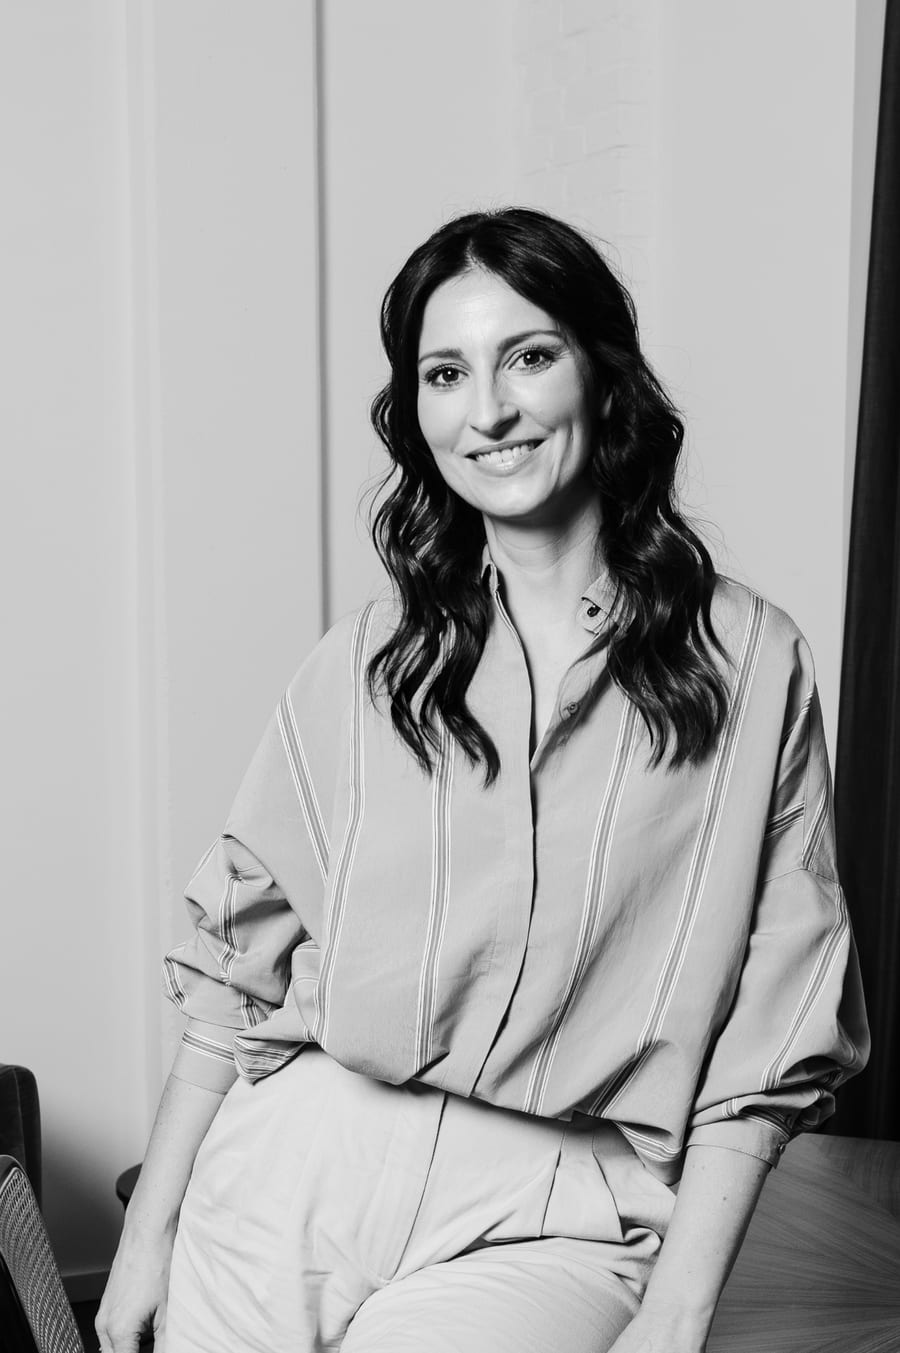
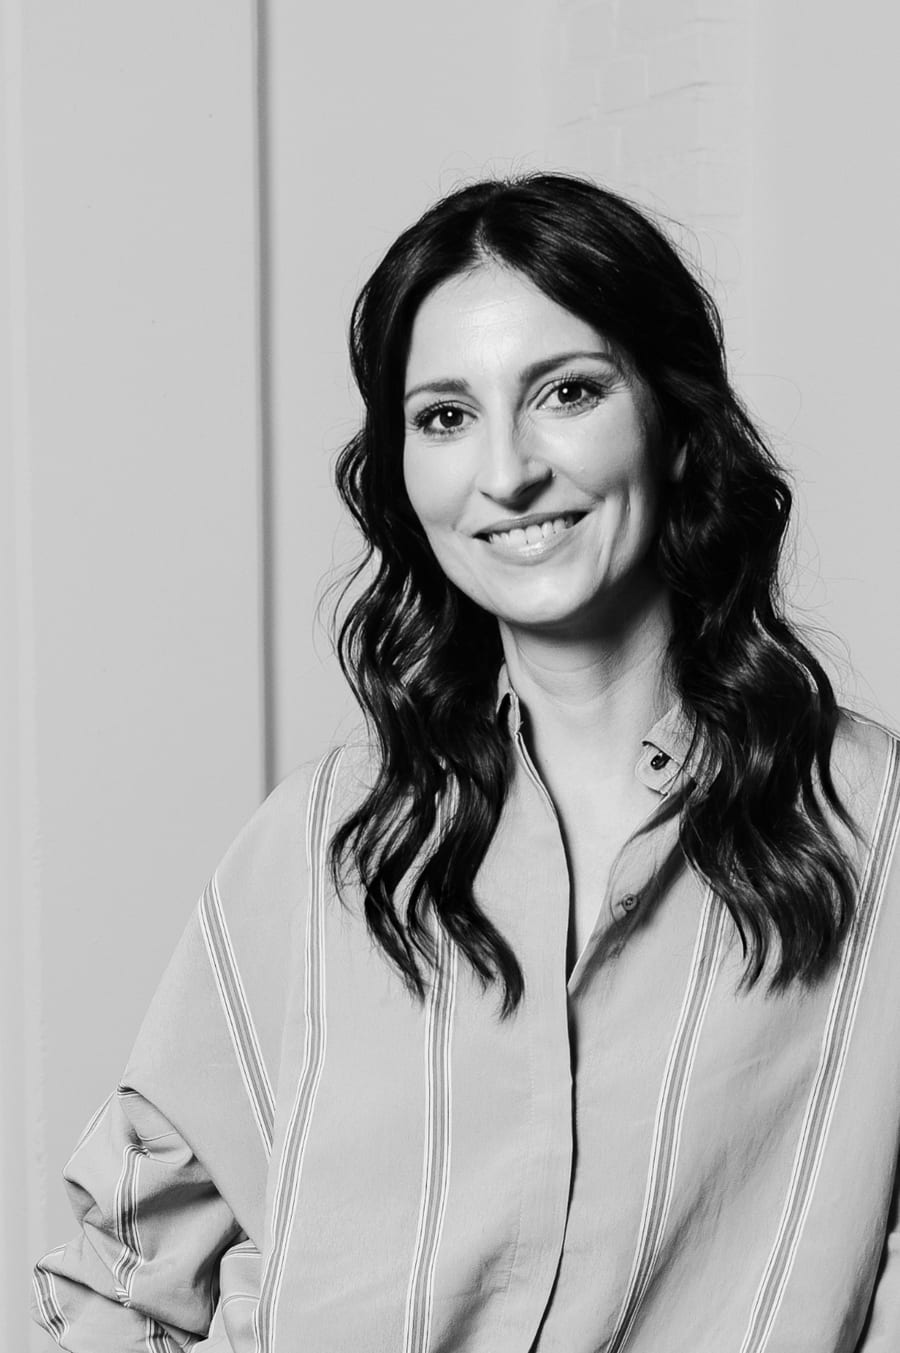
Quote-Bild Marcus enger + weiter links, Textcontainer 86%, Elfsight-Feed, Michael/Simone/Natali-Recrops
- Editorial-Quote: macus zitat.JPG neu gecroppt (Zoom ~20%, Fenster nach
  rechts -> Marcus groesser, links-of-center); Textcontainer min(62rem,86%)
- Social-Feed: ElfsightFeed als iframe (Lindas .elf.site-Embed, Instagram
  @banijaygermany) statt Juicer-Block
- Team-Recrops: Michael Laegel groesser/Scheitel buendig, Simone kleiner+hoeher,
  Natali groesser = Heike-Gesichtshoehe

diff --git a/src/components/cinematic/ElfsightFeed.tsx b/src/components/cinematic/ElfsightFeed.tsx
@@ -1,17 +1,48 @@
 "use client";
 
-import Script from "next/script";
+// Instagram-Feed @banijaygermany über ein von Banijay (Linda, 22.07.) eingerichtetes
+// Elfsight-Widget. Der Token/die Meta-Anbindung liegt in Elfsight — hier wird nur das
+// Widget als iframe (`<id>.elf.site`, exakt Lindas Embed) eingebettet. NICHT die
+// platform.js-App-Variante: Lindas ID ist eine Share-/iframe-ID, kein App-Widget
+// (`elfsight-app-<id>` liefert damit WIDGET_NOT_FOUND). Eigene „#BanijayGermany"-Section.
 
-// Elfsight Instagram Feed — Interimslösung für @banijaygermany, solange kein
-// Graph-API-Token vorliegt. Lädt die Posts über Elfsights Plattform.
-// Sobald IG_TOKEN_BANIJAYGERMANY gesetzt ist, übernimmt wieder unser natives
-// ReelsSlider-Modul (siehe Home-Seite).
+const ELF_APP = "d46ee32f1dd44015b2404ba3940c497a";
+const SHARP = "var(--font-sharp), sans-serif";
 
-export function ElfsightFeed({ appId }: { appId: string }) {
+export function ElfsightFeed({
+  appId = ELF_APP,
+  headline = "#BanijayGermany",
+  subline = "Neuigkeiten, Menschen und Momente — direkt aus unseren Kanälen.",
+}: {
+  appId?: string;
+  headline?: string;
+  subline?: string;
+}) {
   return (
-    <>
-      <Script src="https://elfsightcdn.com/platform.js" strategy="lazyOnload" />
-      <div className={`elfsight-app-${appId}`} data-elfsight-app-lazy />
-    </>
+    <section className="relative w-full overflow-clip" style={{ background: "transparent" }}>
+      <div className="mx-auto w-full" style={{ maxWidth: "1680px", padding: "clamp(3rem, 7vw, 7rem) 2vw clamp(3rem, 6vw, 6rem)" }}>
+        {headline ? (
+          <h2 className="m-0 uppercase text-[#f8f7f3]" style={{ fontFamily: SHARP, fontWeight: 500, fontSize: "clamp(2rem, 4.4vw, 4.6rem)", letterSpacing: "-0.03em", lineHeight: 1 }}>
+            {headline}
+          </h2>
+        ) : null}
+        {subline ? (
+          <p className="mt-3 max-w-[46rem]" style={{ color: "rgba(248,247,243,0.7)", fontSize: "clamp(0.95rem, 1.1vw, 1.15rem)", lineHeight: 1.4 }}>
+            {subline}
+          </p>
+        ) : null}
+
+        {/* Elfsight-Widget als iframe (Lindas Embed). Fixe Höhe (das Share-iframe skaliert
+            nicht selbst) — mobil höher, da der Grid dort auf weniger Spalten umbricht. */}
+        <div className="mt-[clamp(1.6rem,3vw,2.6rem)]">
+          <iframe
+            src={`https://${appId}.elf.site`}
+            title="Instagram — @banijaygermany"
+            loading="lazy"
+            className="h-[640px] w-full border-none max-[767px]:h-[760px]"
+          />
+        </div>
+      </div>
+    </section>
   );
 }

diff --git a/src/app/(frontend)/page.tsx b/src/app/(frontend)/page.tsx
@@ -8,7 +8,7 @@ import { IntroOverlay } from "@/components/cinematic/algarve/IntroOverlay";
 import { AlgarveFoundersSnap } from "@/components/cinematic/algarve/FoundersSnap";
 import { AlgarveLogoReveal } from "@/components/cinematic/algarve/LogoReveal";
 import { AlgarveNewsStack } from "@/components/cinematic/algarve/NewsStack";
-import { AlgarveCareerSocialFeed } from "@/components/cinematic/algarve/CareerSocialFeed";
+import { ElfsightFeed } from "@/components/cinematic/ElfsightFeed";
 
 // Home — Design-first: das Gerüst sind die echten Algarve-Sections (Hero, Grid,
 // About-Intro-Wordreveal, Works-Deck, Animated-Heading, Services-Stack,
@@ -82,11 +82,9 @@ export default function HomePage() {
       {/* Latest news als Stapel-Tiles (section_blog-home) — auf Magenta */}
       <AlgarveNewsStack />
 
-      {/* Social-Feed — dieselbe Juicer-/LinkedIn-Section wie auf Career & News,
-          hier als abschließender „live aus der Banijay-Welt"-Block vor dem Footer. */}
-      <AlgarveCareerSocialFeed
-        dark
-        showText={false}
+      {/* Social-Feed (Wolfram 22.07.) — Instagram @banijaygermany über das von Banijay
+          eingerichtete Elfsight-Widget (Token via Linda). Löst hier den Juicer-Block ab. */}
+      <ElfsightFeed
         headline="#BanijayGermany"
         subline="Neuigkeiten, Menschen und Momente — direkt aus unseren Kanälen."
       />

diff --git a/src/components/cinematic/algarve/EditorialStickyScene.tsx b/src/components/cinematic/algarve/EditorialStickyScene.tsx
@@ -261,7 +261,7 @@ export function EditorialStickyScene() {
                 // Mobile (Wolfram 19.07.): breitere Laufweite (90 % statt 64 %) → der
                 // Quote-Text bricht auf weniger Zeilen um und ragt nicht mehr so hoch ins Bild.
                 className="absolute bottom-0 left-0 m-0 max-[767px]:!p-[5vw] max-[767px]:!max-w-[90%]"
-                style={{ padding: "clamp(1.5rem, 2.4vw, 2.8rem)", maxWidth: "min(52rem, 72%)", color: "#f8f7f3" }}
+                style={{ padding: "clamp(1.5rem, 2.4vw, 2.8rem)", maxWidth: "min(62rem, 86%)", color: "#f8f7f3" }}
               >
                 <p className="m-0 max-[767px]:!text-[4vw]" style={{ fontFamily: SHARP, fontSize: "clamp(1.05rem, 1.5vw, 1.6rem)", lineHeight: "132%", fontWeight: 500 }}>
                   „Wir bei Banijay sind ein Verbund der besten unabhängigen Entertainment-Produzenten und Unternehmer. Wir bieten Unterhaltung, über die ganz Deutschland spricht.
